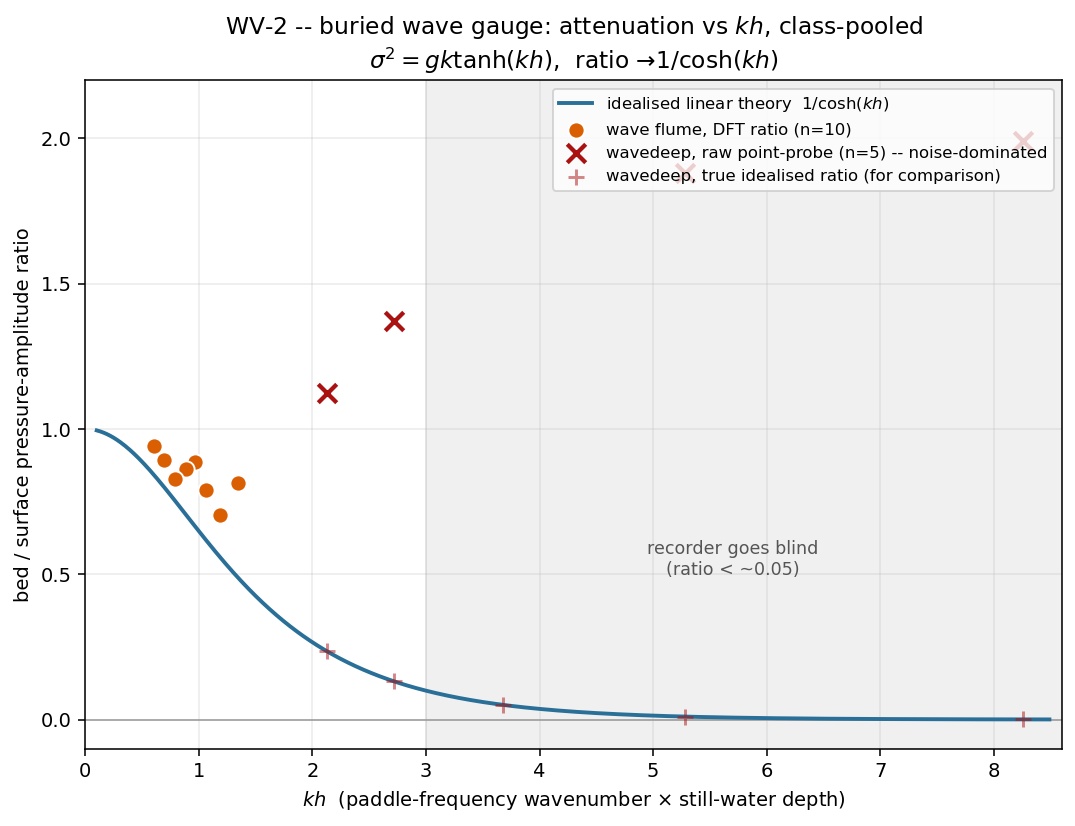
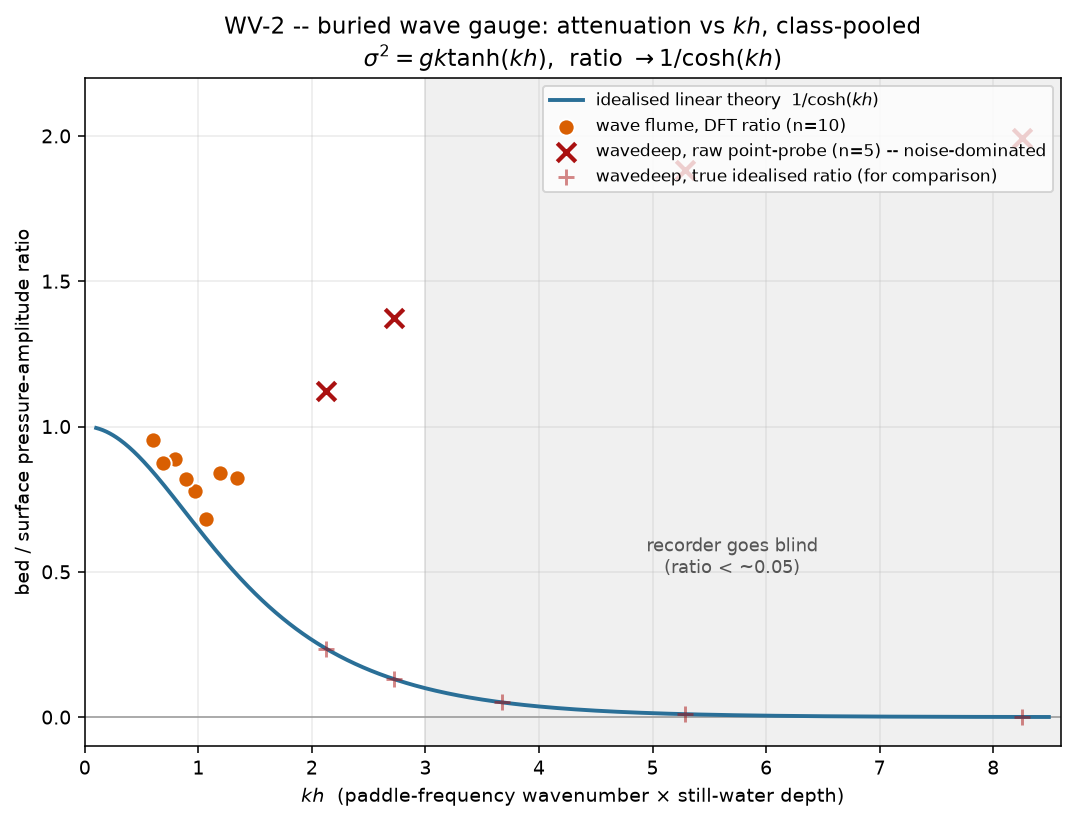
WV-2: wave rows re-measured with the closure off at the flumes' nu 1e-4 (#2)
Bed/surface ratio at the paddle frequency, 8 periods: within the row-to-row
scatter (about +-0.1) of the closure-on values. The pooled bias is
unchanged: +28.5% against the ideal curve (was +29%), and +8.9% scored at
each gauge's own height (the README's +8%, now +9%). The closure-on rerun
did not reproduce the old CSV row by row (e.g. T 1.10: 0.66 vs 0.81); the
gauge head formula is not the cause, so the CSV predates later solver
changes. wavedeep rows unchanged (that flume keeps the closure). Note:
rig.js no longer runs as written (gauges take z, not y; APP.frames now
advances less than 1/60 s), and the measurement used a wrapper.

diff --git a/courses/original/exercises/WV-2-buried-gauge/README.md b/courses/original/exercises/WV-2-buried-gauge/README.md
@@ -92,7 +92,9 @@ as their own series with a `+` marking where their true ratio sits.
   scatter.** The idealised `1/cosh(kh)` assumes gauges exactly at the bed and
   exactly at the surface; real ones are inset at both ends, and pressure
   attenuates less between two inset points. Scoring each gauge at its own
-  measured height drops the bias from +29% to +8%.
+  measured height drops the bias from +29% to +9%.
+
+*Re-measured Oct 2026 with the mixing-length closure off in the wave flume, at ν = 1e-4 (mvreeuwijk/hydraulician#2); the closure-on values (ν = 1e-5, same code) were within the same scatter. The `wave` rows of `data/simulated-class.csv` and the +29% → +9% bias are new (+8% before); the pooled picture is unchanged, though a single row is good for about ±0.1 on the ratio (e.g. T = 1.30 reads 0.68 off, 0.81 on). The `wavedeep` rows and the noise-floor numbers above are unchanged, because that scene keeps the closure.*
 
 The full verification record — the calibrated stroke tables and why the
 scene's own defaults are unsafe, the spin-up recording trap, the gauge-station
